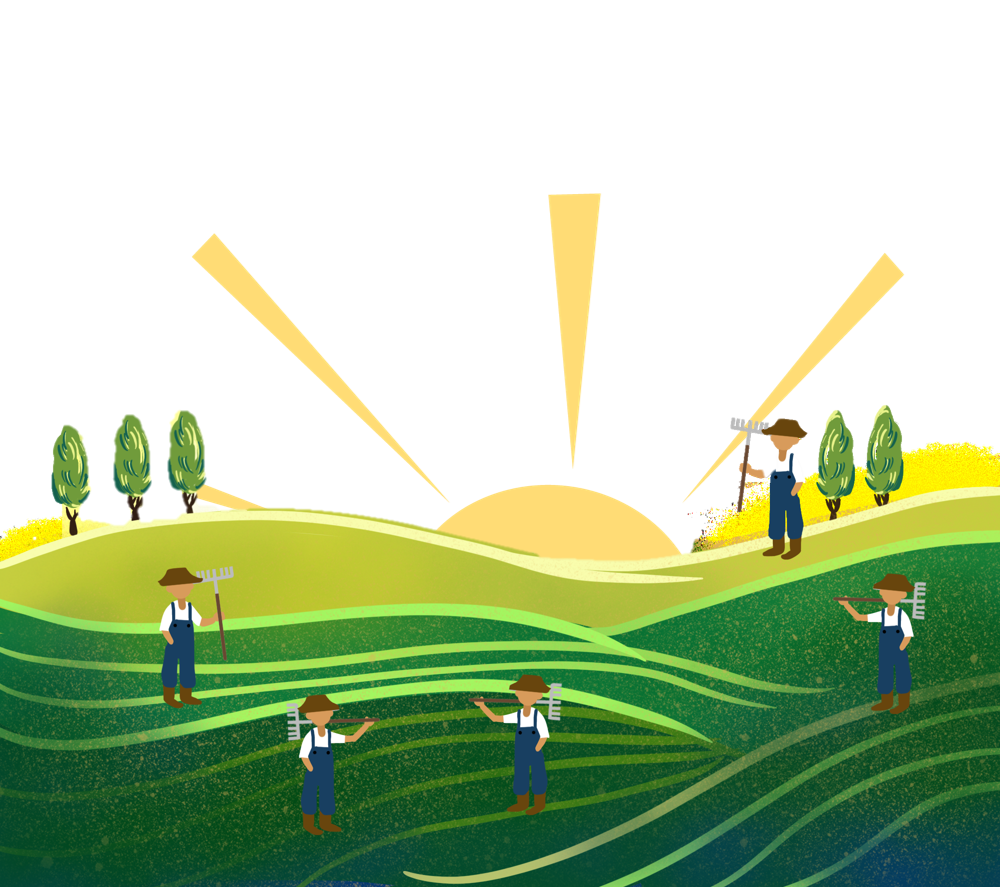
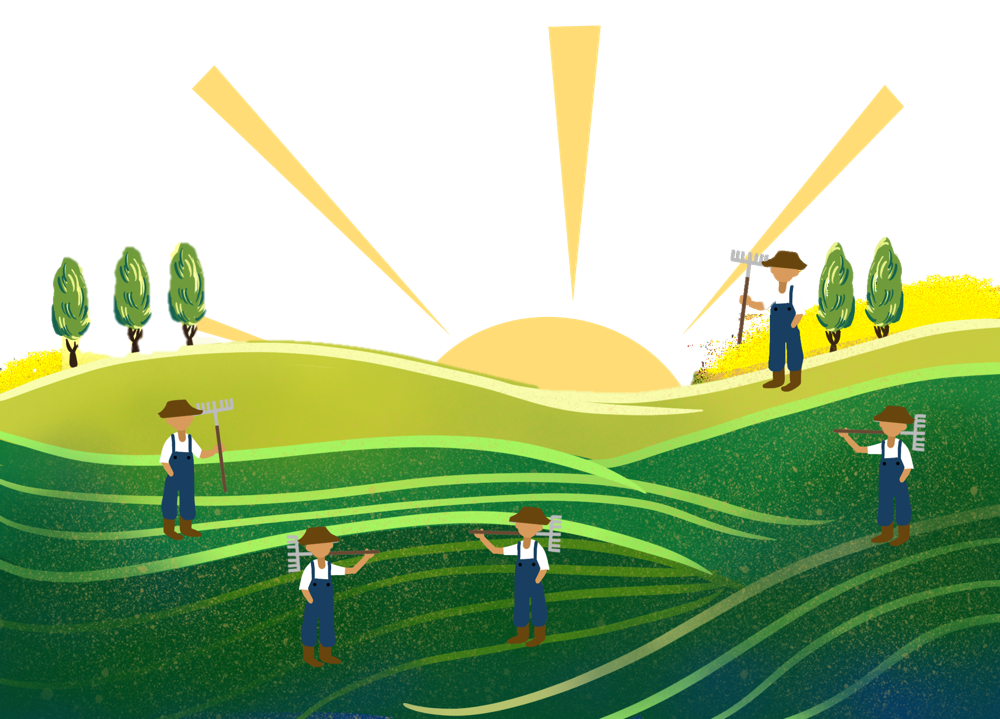
fixs

diff --git a/lib/home/home_view.dart b/lib/home/home_view.dart
@@ -1,4 +1,3 @@
-import 'package:flutter/cupertino.dart';
 import 'package:flutter/material.dart';
 import 'package:get/get.dart';
 import 'package:pillow/route_config.dart';
@@ -13,58 +12,102 @@ class HomePage extends StatelessWidget {
 
   @override
   Widget build(BuildContext context) {
-    double screenSizeWidth = Get.width;
-    double screenSizeHeight = Get.height;
     return SafeArea(
-      child: Scaffold(body: Stack(
+        child: Scaffold(
+      body: Column(
         children: [
-          Row(
+          Expanded(flex: 4, child: top()),
+          Expanded(flex: 4, child: bottom())
+        ],
+      ),
+    ));
+  }
+}
+
+Widget top() {
+  return LayoutBuilder(builder: (context, BoxConstraints constraints) {
+    final w = constraints.maxWidth;
+    final h = constraints.maxHeight;
+    return Stack(
+      children: [
+        Padding(
+          padding: EdgeInsets.fromLTRB(0, w * 0.15, 0, 0),
+          child: Row(
             mainAxisAlignment: MainAxisAlignment.center,
             crossAxisAlignment: CrossAxisAlignment.start,
             children: [
-              Image.asset('assets/head.png', width: screenSizeWidth),
+              Image.asset('assets/head.png', width: w),
             ],
           ),
-          Column(
-            children: [
-              Padding(
-                padding: EdgeInsets.symmetric(vertical: screenSizeHeight*0.09, horizontal: screenSizeWidth*0.1),
-                child: Row(
-                  mainAxisAlignment: MainAxisAlignment.end,
-                  children: [
-                    Image.asset('assets/pillow.png', width: screenSizeWidth*0.3, height: screenSizeWidth*0.3,)
-                  ],
-                ),
+        ),
+        Column(
+          children: [
+            Padding(
+              padding: EdgeInsets.fromLTRB(0, w * 0.05, 0, 0),
+              child: Row(
+                mainAxisAlignment: MainAxisAlignment.end,
+                children: [
+                  Image.asset(
+                    'assets/pillow.png',
+                    width: w * 0.3,
+                    height: w * 0.3,
+                  )
+                ],
               ),
-              Padding(
-                padding: EdgeInsets.all(30.0),
-                child: Row(
-                  children: [
-                    Image.asset('assets/pillow.png', width: screenSizeWidth*0.3, height: screenSizeWidth*0.3,)
-                  ],
-                ),
-              ),
-            ],
-          ),
-          Center(
-            child: Column(
-              mainAxisAlignment: MainAxisAlignment.end,
-              crossAxisAlignment: CrossAxisAlignment.center,
-              children: [
-                ElevatedButton(onPressed: (){
-                  Get.toNamed(RouteConfig.rules);
-                }, child: Text('玩法說明')),
-                ElevatedButton(onPressed: (){
-                  Get.toNamed(RouteConfig.bus);
-                }, child: Text('公車時刻')),
-                ElevatedButton(onPressed: (){
-                  Get.toNamed(RouteConfig.lobby);
-                }, child: Text('開始遊戲'))
-              ],
             ),
-          ),
-        ],
-      )),
+            Padding(
+              padding: EdgeInsets.fromLTRB(0, w * 0.1, 0, 0),
+              child: Row(
+                mainAxisAlignment: MainAxisAlignment.start,
+                children: [
+                  Image.asset(
+                    'assets/pillow.png',
+                    width: h * 0.3,
+                    height: h * 0.3,
+                  )
+                ],
+              ),
+            ),
+          ],
+        ),
+      ],
     );
-  }
+  });
+}
+
+Widget bottom() {
+  return LayoutBuilder(builder: (context, BoxConstraints constraints) {
+    final w = constraints.maxWidth;
+    final h = constraints.maxHeight;
+    return Stack(children: [
+      Image.asset(
+        'assets/under.png',
+        width: w,
+        height: h * 0.9,
+        fit: BoxFit.cover,
+      ),
+      Center(
+        child: Column(
+          mainAxisAlignment: MainAxisAlignment.center,
+          children: [
+            ElevatedButton(
+                onPressed: () {
+                  Get.toNamed(RouteConfig.rules);
+                },
+                child: Text('玩法說明')),
+            ElevatedButton(
+                onPressed: () {
+                  Get.toNamed(RouteConfig.bus);
+                },
+                child: Text('公車時刻')),
+            ElevatedButton(
+                onPressed: () {
+                  Get.toNamed(RouteConfig.lobby);
+                },
+                child: Text('開始遊戲'))
+          ],
+        ),
+      ),
+    ]);
+  });
 }
